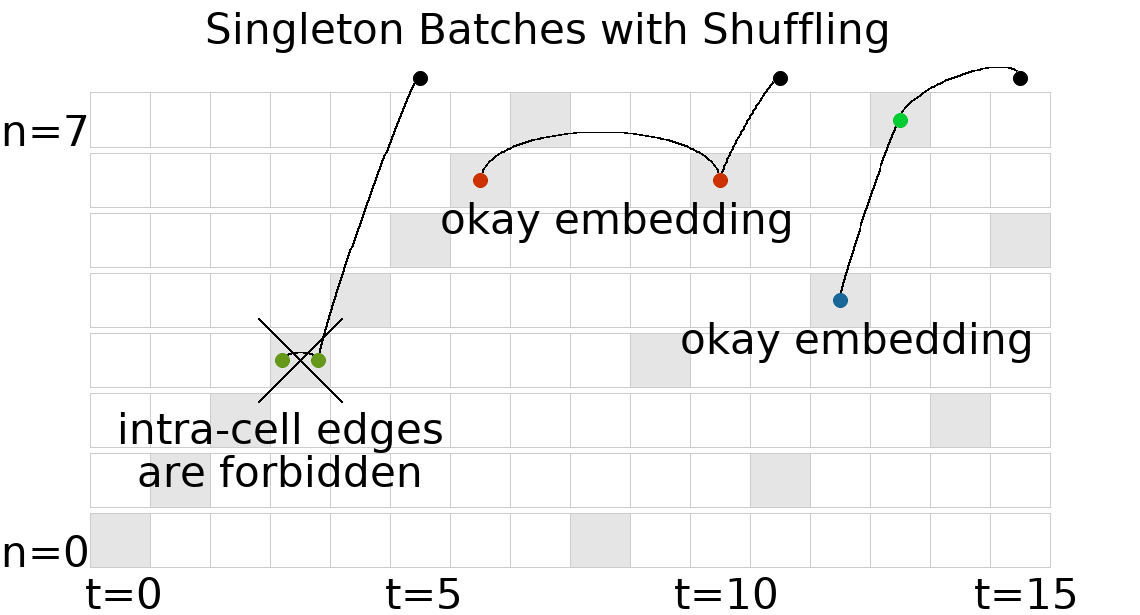
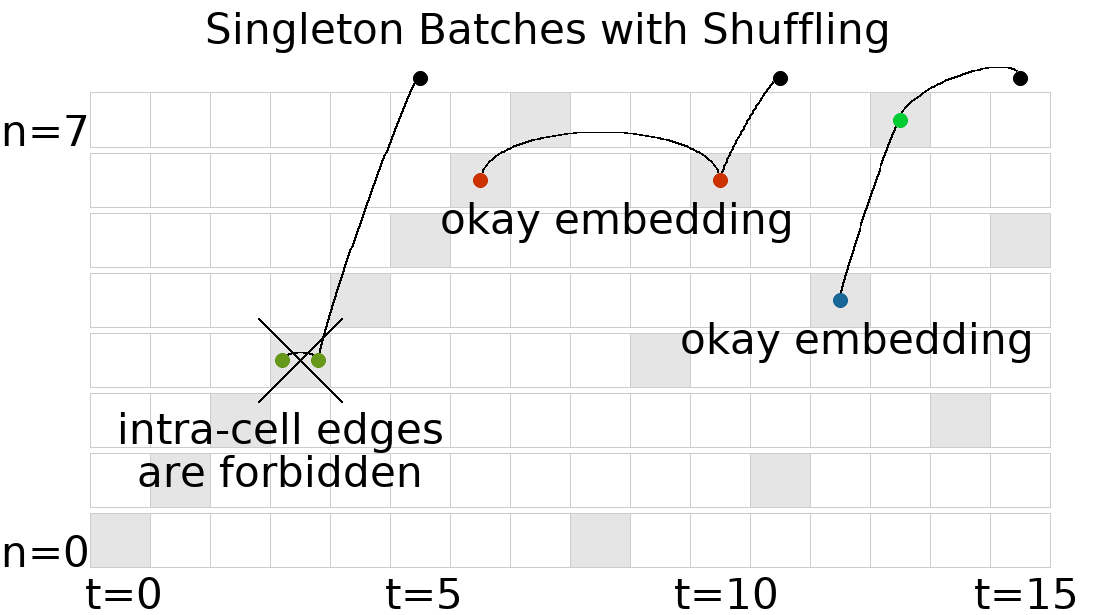
more diagrams

diff --git a/diagrams/spacetime.py b/diagrams/spacetime.py
@@ -69,7 +69,8 @@ dT = 5
 MARG = 45
 SPACE = 60
 height = 3*MARG + N*SPACE
-width  = 4*MARG + T*SPACE
+#width  = 4*MARG + T*SPACE
+width  = 3*MARG + T*SPACE
 get_r = lambda n: int(2*MARG + (N-n)*SPACE)
 get_c = lambda t: int(2*MARG + t*SPACE)
 
